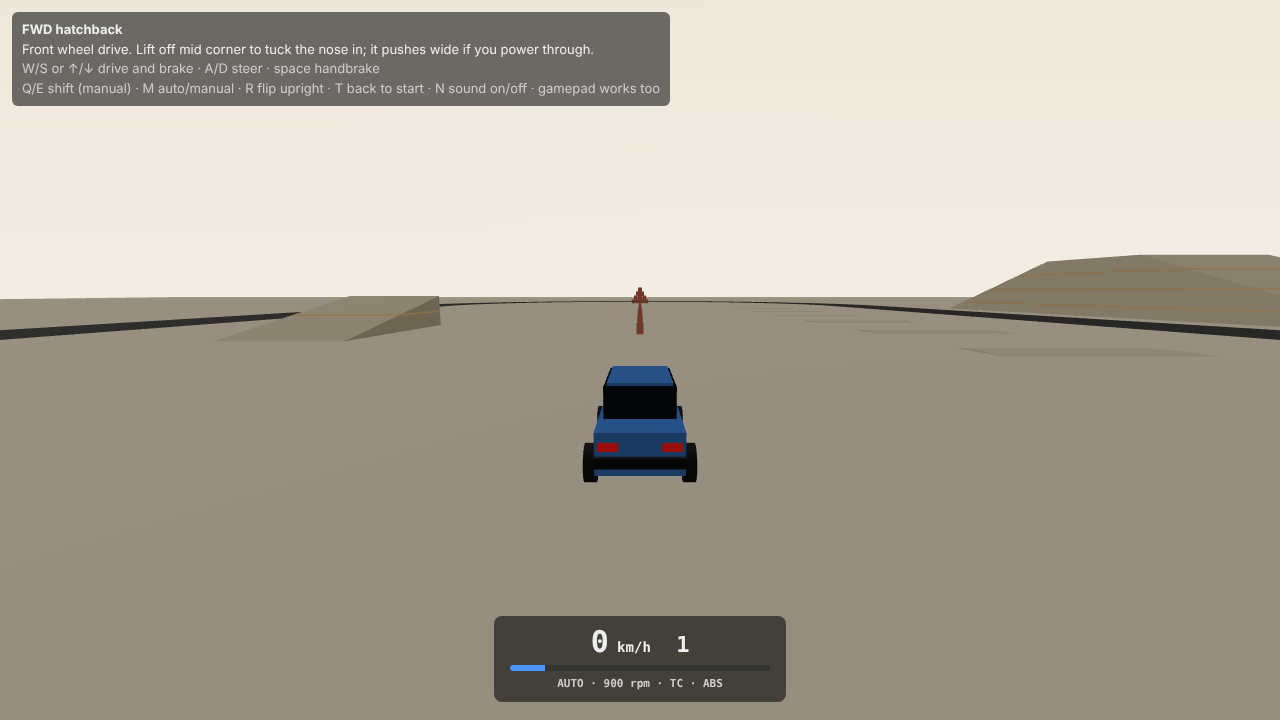
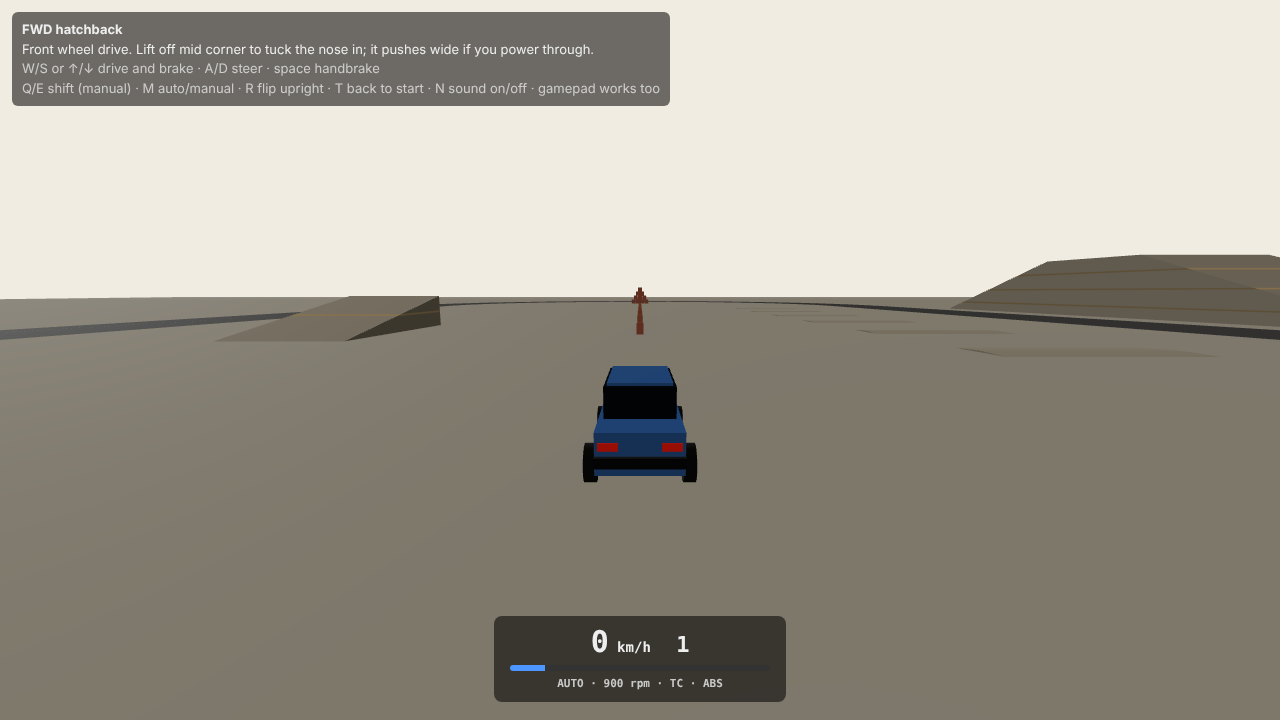
Vehicle examples: visible skid marks and bumps, no sky, taller rally tires
- Skid marks draw over the race tracks' road strip (lifted 10 cm with a
  polygon offset, more opaque), and the asphalt is a lighter grey.
- The sky gradient is gone: a plain background that the fog fades into.
- Race track bumps are smooth shaded meshes facing up (they were wound
  downward and culled), lifted with the road, with exaggerated slope
  shading so even the 3 cm ridges show. Terrain slopes are hillshaded.
- The rally car has 0.37 m gravel tires (was 0.33); final drive, brakes,
  handbrake and wheel inertia scale with the radius, so its metrics and
  laps are unchanged in kind. Skill archetype table updated.

Claude-Session: https://claude.ai/code/session_01LRrE3U2DNQ6uEDrbxeJR8q

Changed region(s): [[0.5312, 0.3361, 1.0, 0.55], [0.0, 0.4278, 0.2188, 0.4889], [0.25, 0.3972, 0.3438, 0.4889]]

diff --git a/examples/src/vehicle-track-art.ts b/examples/src/vehicle-track-art.ts
@@ -1,14 +1,12 @@
 // Minimal topographic look for the vehicle examples: warm paper tones, terrain shaded by height
-// with contour lines every 2 m, a soft sky gradient, dark roads with thin white edges and coral
+// and slope with contour lines every 2 m, a flat background, dark roads with thin white edges and coral
 // accents. On the race tracks the road is its own ribbon mesh along the track's spline, so its
 // edges and lines are crisp instead of following the 2 m terrain grid.
 
 import * as THREE from 'three';
-import { ConvexGeometry } from 'three/addons/geometries/ConvexGeometry.js';
 import type { RaceTrack } from './vehicle-tracks';
 
 export const topo = {
-	sky: [0xeee8dc, 0xf7f4ec] as const,
 	fog: 0xf1ece2,
 	/** Ground from low to high */
 	ground: [0xe9e1cf, 0xf4efe3] as const,
@@ -16,13 +14,15 @@ export const topo = {
 	solid: 0xddd2bb,
 	contour: 0xc4b391,
 	contourSpacing: 2,
-	asphalt: 0x3c3c3c,
+	asphalt: 0x5a5a5a,
 	gravel: 0x8c7a5b,
 	line: 0xffffff,
 	accent: 0xe07a5f,
 };
 
-/** Sky gradient, fog and soft lights. The scene's default lights go dark. */
+const sunPosition = new THREE.Vector3(200, 75, 120);
+
+/** Flat background, fog and a low sun. The scene's default lights go dark. */
 export function applyTopoAtmosphere(
 	scene: THREE.Scene,
 	fogNear = 150,
@@ -32,23 +32,13 @@ export function applyTopoAtmosphere(
 		if (o instanceof THREE.AmbientLight || o instanceof THREE.DirectionalLight)
 			o.intensity = 0;
 	});
-	const canvas = document.createElement('canvas');
-	canvas.width = 2;
-	canvas.height = 256;
-	const ctx = canvas.getContext('2d') as CanvasRenderingContext2D;
-	const gradient = ctx.createLinearGradient(0, 0, 0, 256);
-	const hex = (c: number) => `#${c.toString(16).padStart(6, '0')}`;
-	gradient.addColorStop(0, hex(topo.sky[0]));
-	gradient.addColorStop(1, hex(topo.sky[1]));
-	ctx.fillStyle = gradient;
-	ctx.fillRect(0, 0, 2, 256);
-	const sky = new THREE.CanvasTexture(canvas);
-	sky.colorSpace = THREE.SRGBColorSpace;
-	scene.background = sky;
+	// No sky: one flat tone that the fog fades the land into
+	scene.background = new THREE.Color(topo.fog);
 	scene.fog = new THREE.Fog(topo.fog, fogNear, fogFar);
-	scene.add(new THREE.HemisphereLight(topo.sky[0], topo.ground[0], 0.8));
-	const sun = new THREE.DirectionalLight(0xffffff, 0.6);
-	sun.position.set(120, 200, 80);
+	// A low sun rakes across the ground so bumps and slopes cast clear shading
+	scene.add(new THREE.HemisphereLight(topo.fog, topo.ground[0], 0.55));
+	const sun = new THREE.DirectionalLight(0xffffff, 1.0);
+	sun.position.copy(sunPosition);
 	scene.add(sun);
 }
 
@@ -64,15 +54,18 @@ export function topoMaterial(
 		shader.uniforms.contourColor = { value: new THREE.Color(topo.contour) };
 		shader.uniforms.contourSpacing = { value: topo.contourSpacing };
 		shader.vertexShader = shader.vertexShader
-			.replace('#include <common>', '#include <common>\nvarying float vHeight;')
+			.replace(
+				'#include <common>',
+				'#include <common>\nvarying float vHeight;\nvarying float vUp;',
+			)
 			.replace(
 				'#include <begin_vertex>',
-				'#include <begin_vertex>\nvHeight = (modelMatrix * vec4(position, 1.0)).y;',
+				'#include <begin_vertex>\nvHeight = (modelMatrix * vec4(position, 1.0)).y;\nvUp = normalize(mat3(modelMatrix) * objectNormal).y;',
 			);
 		shader.fragmentShader = shader.fragmentShader
 			.replace(
 				'#include <common>',
-				'#include <common>\nvarying float vHeight;\nuniform vec3 contourColor;\nuniform float contourSpacing;',
+				'#include <common>\nvarying float vHeight;\nvarying float vUp;\nuniform vec3 contourColor;\nuniform float contourSpacing;',
 			)
 			.replace(
 				'#include <dithering_fragment>',
@@ -82,7 +75,9 @@ export function topoMaterial(
 	// fwidth is 0 on perfectly flat ground, and smoothstep(0, 0, x) is undefined
 	float w = max(fwidth(f), 1e-4);
 	float line = 1.0 - smoothstep(0.0, 1.5 * w, abs(fract(f - 0.5) - 0.5));
-	gl_FragColor.rgb = mix(gl_FragColor.rgb, contourColor, line * 0.8);`,
+	gl_FragColor.rgb = mix(gl_FragColor.rgb, contourColor, line * 0.8);
+	// Hillshade: steeper ground a little darker, so slopes read even in flat light
+	gl_FragColor.rgb *= 1.0 - 0.35 * smoothstep(0.02, 0.5, 1.0 - vUp);`,
 			);
 	};
 	// The shader edit is the same for every topo material, so they can share one program
@@ -165,6 +160,78 @@ function ribbon(
 	return geometry;
 }
 
+/**
+ * A bump's visible surface: the same shape as its convex hull (the upper outline of the profile
+ * across the road, ramping down to the base beyond each edge), as a fine grid with smooth normals
+ */
+function bumpGeometry(points: number[], half: number): THREE.BufferGeometry {
+	// The profile along the road from the hull's top points at the road edge
+	const profile: [number, number][] = [];
+	for (let k = 0; k < points.length; k += 3) {
+		if (Math.abs(points[k] - half) < 1e-4 && points[k + 1] >= 0) {
+			profile.push([points[k + 2], points[k + 1]]);
+		}
+	}
+	profile.sort((a, b) => a[0] - b[0]);
+	// Its upper convex hull, which is what the physics hull follows
+	const hull: [number, number][] = [];
+	for (const p of profile) {
+		while (hull.length >= 2) {
+			const [a, b] = [hull[hull.length - 2], hull[hull.length - 1]];
+			if ((b[0] - a[0]) * (p[1] - a[1]) - (b[1] - a[1]) * (p[0] - a[0]) >= 0)
+				hull.pop();
+			else break;
+		}
+		hull.push(p);
+	}
+	// Densify so the shading interpolates smoothly along it
+	const along: [number, number][] = [];
+	for (let i = 0; i < hull.length - 1; i++) {
+		for (let k = 0; k < 4; k++) {
+			const t = k / 4;
+			along.push([
+				hull[i][0] + (hull[i + 1][0] - hull[i][0]) * t,
+				hull[i][1] + (hull[i + 1][1] - hull[i][1]) * t,
+			]);
+		}
+	}
+	along.push(hull[hull.length - 1]);
+	const ramp = 2.5;
+	const across = [
+		-half - ramp,
+		-half - ramp / 2,
+		-half,
+		0,
+		half,
+		half + ramp / 2,
+		half + ramp,
+	];
+	const positions: number[] = [];
+	for (const [u, h] of along) {
+		for (const w of across) {
+			const edge = Math.max(0, Math.abs(w) - half) / ramp;
+			positions.push(w, -0.05 + (h + 0.05) * (1 - edge), u);
+		}
+	}
+	const indices: number[] = [];
+	const m = across.length;
+	for (let i = 0; i < along.length - 1; i++) {
+		for (let j = 0; j < m - 1; j++) {
+			const a = i * m + j;
+			// Wound counter-clockwise seen from above, so the faces and normals point up
+			indices.push(a, a + m, a + 1, a + 1, a + m, a + m + 1);
+		}
+	}
+	const geometry = new THREE.BufferGeometry();
+	geometry.setAttribute(
+		'position',
+		new THREE.Float32BufferAttribute(positions, 3),
+	);
+	geometry.setIndex(indices);
+	geometry.computeVertexNormals();
+	return geometry;
+}
+
 /** The race track's terrain, road, start line, bumps and start gate */
 export function addRaceTrackArt(
 	scene: THREE.Scene,
@@ -219,24 +286,40 @@ export function addRaceTrackArt(
 	};
 	group.add(new THREE.Mesh(ribbon(track, -half, half, 0.08, nearStart), line));
 
-	// Bumps in the accent colour
+	// Bumps in the accent colour, lifted with the road so even the small ones show, with smooth
+	// normals so the low sun shades their shape
 	const bumpMaterial = new THREE.MeshStandardMaterial({
 		color: topo.accent,
 		roughness: 0.85,
+		polygonOffset: true,
+		polygonOffsetFactor: -3,
+		polygonOffsetUnits: -3,
 	});
-	for (const bump of track.bumps) {
-		const points: THREE.Vector3[] = [];
-		for (let k = 0; k < bump.points.length; k += 3) {
-			points.push(
-				new THREE.Vector3(
-					bump.points[k],
-					bump.points[k + 1],
-					bump.points[k + 2],
-				),
+	// Even the big hump slopes only about 10 degrees, which plain lighting barely shows, so the
+	// shading is exaggerated: faces tilted toward the sun brighten and faces tilted away darken
+	bumpMaterial.onBeforeCompile = (shader) => {
+		shader.vertexShader = shader.vertexShader
+			.replace('#include <common>', '#include <common>\nvarying vec3 vSlope;')
+			.replace(
+				'#include <begin_vertex>',
+				'#include <begin_vertex>\nvSlope = normalize(mat3(modelMatrix) * objectNormal);',
 			);
-		}
-		const mesh = new THREE.Mesh(new ConvexGeometry(points), bumpMaterial);
-		mesh.position.set(...bump.position);
+		shader.fragmentShader = shader.fragmentShader
+			.replace('#include <common>', '#include <common>\nvarying vec3 vSlope;')
+			.replace(
+				'#include <dithering_fragment>',
+				`#include <dithering_fragment>
+	float tilt = dot(normalize(vSlope).xz, normalize(vec2(${sunPosition.x}, ${sunPosition.z})));
+	gl_FragColor.rgb *= clamp(1.0 + 4.0 * tilt, 0.45, 1.6);`,
+			);
+	};
+	for (const bump of track.bumps) {
+		const mesh = new THREE.Mesh(bumpGeometry(bump.points, half), bumpMaterial);
+		mesh.position.set(
+			bump.position[0],
+			bump.position[1] + 0.05,
+			bump.position[2],
+		);
 		mesh.rotation.y = bump.yaw;
 		group.add(mesh);
 	}

diff --git a/examples/src/vehicle-presets.js b/examples/src/vehicle-presets.js
@@ -348,11 +348,13 @@ export const vehicleCars = {
 		comHeight: 0.16,
 		comForward: 0.08,
 		layout: [0.8, -0.05, 1.25, -1.25],
-		wheelRadius: 0.33,
-		wheelInertia: 0.9,
-		front: { width: 0.21, brake: 2300, frequency: 1.5 },
-		rear: { width: 0.21, brake: 1500, frequency: 1.6 },
-		handbrake: 4000,
+		// Tall gravel tires. The final drive, brakes and wheel inertia scale with the radius
+		// (0.33 m before), so the gearing and stopping force stay the same.
+		wheelRadius: 0.37,
+		wheelInertia: 1.13,
+		front: { width: 0.235, brake: 2580, frequency: 1.5 },
+		rear: { width: 0.235, brake: 1680, frequency: 1.6 },
+		handbrake: 4480,
 		suspension: {
 			minLength: 0.12,
 			maxLength: 0.45,
@@ -378,7 +380,7 @@ export const vehicleCars = {
 			inertia: 0.12,
 		},
 		gears: [3.3, 2.3, 1.75, 1.4, 1.15, 0.98],
-		finalDrive: 4.4,
+		finalDrive: 4.93,
 		shiftUpRpm: 6500,
 		shiftDownRpm: 3600,
 		shiftTime: 0.08,

diff --git a/examples/src/vehicle-demo.ts b/examples/src/vehicle-demo.ts
@@ -651,8 +651,12 @@ export async function runVehicleDemo(
 		new THREE.MeshBasicMaterial({
 			color: 0x0b0b0b,
 			transparent: true,
-			opacity: 0.55,
+			opacity: 0.7,
 			depthWrite: false,
+			// Drawn over the race tracks' road strip, which sits a few centimetres up
+			polygonOffset: true,
+			polygonOffsetFactor: -4,
+			polygonOffsetUnits: -4,
 		}),
 		maxMarks,
 	);
@@ -685,10 +689,7 @@ export async function runVehicleDemo(
 		const length = last.distanceTo(point);
 		if (length < 0.25) return;
 		dir.subVectors(point, last).normalize();
-		markPos
-			.addVectors(point, last)
-			.multiplyScalar(0.5)
-			.addScaledVector(n, 0.02);
+		markPos.addVectors(point, last).multiplyScalar(0.5).addScaledVector(n, 0.1);
 		markQuat.setFromUnitVectors(up, n);
 		const localDir = dir.clone().applyQuaternion(markQuat.clone().invert());
 		tangentQuat.setFromAxisAngle(up, Math.atan2(localDir.x, localDir.z));

diff --git a/CHANGELOG.md b/CHANGELOG.md
@@ -10,8 +10,9 @@
   - The smoke test drives all 45 presets and checks the preset layers.
 - Two race tracks for the vehicle examples, in the showcase's terrain menu (`?terrain=circuit` or `?terrain=stage`): a 1.27 km paved race circuit and a 1.07 km off-road gravel stage. Both are closed loops with a mix of corners, a climb to a crest and a descent (20 m and 30 m of elevation, grades to 9% on the circuit and 18% on the stage), and a bump section with bumps of different sizes: small sharp ridges, washboard, speed humps, a flat topped table, a long gentle hump and a big hump on the circuit; small rocks, whoops, a washout ledge, ruts and a jump on the stage. A lap timer shows the current, last and best lap.
   - `examples/src/vehicle-tracks.js` builds a track (`buildRaceTrack`) from a closed spline through control points, and its physics (`createRaceTrackBodies`): a height field and the bumps as convex hulls, with banks and walls at the edge. Node tests use the same code as the examples.
-- The vehicle examples have a minimal topographic look on every terrain: warm paper tones, ground shaded by height with contour lines every 2 m (on ramps, hills and rocks too), a soft sky gradient, coral props and bumps. On the race tracks the road is a smooth ribbon along the track with crisp white edge lines and start line, instead of colours painted on the 2 m terrain grid. `examples/src/vehicle-track-art.ts` holds the look, and `createWorldRenderer` takes a `materialFor` option to override a shape's material.
+- The vehicle examples have a minimal topographic look on every terrain: warm paper tones, ground shaded by height with contour lines every 2 m (on ramps, hills and rocks too), slopes shaded darker, a plain background with no sky, coral props and bumps. The bumps on the race tracks are smooth shaded with exaggerated light and dark faces, so even the 3 cm ridges show, and skid marks draw over the road. On the race tracks the road is a smooth ribbon along the track with crisp white edge lines and start line, instead of colours painted on the 2 m terrain grid. `examples/src/vehicle-track-art.ts` holds the look, and `createWorldRenderer` takes a `materialFor` option to override a shape's material.
   - `examples/scripts/vehicle-laps.mjs` drives presets around the tracks with an autopilot and checks that every lap is completed without flipping. All 45 presets pass on both tracks. The smoke test checks the track geometry and drives a lap on each.
+  - The rally car has taller gravel tires (0.37 m radius, was 0.33). Its final drive, brakes and wheel inertia scale with them, so it accelerates, stops and tops out as before.
   - The automatic gearbox in the matrix cars and the RWD sports car example upshifts at 90% of the rev limit, as racing games do, and the metrics script checks it (`shiftShare`). The gearbox reads road speed, which trails the engine by the clutch slip, so the settings sit below 90% (6200, 6500 and 7150 rpm for the sports car, rally car and supercar).
 - The vehicle examples' track has rounded speed humps (8 cm high, 3.7 m long, like real ones) instead of 14 cm ridges, which bottomed out every car's suspension and could flip cars at 45 km/h and up. The matrix cars' dampers are softer in compression than in rebound, so bumps reach the body more gently.
 - The vehicle examples have sound, made with the Web Audio API and no audio files. The engine's pitch follows the rpm and each car's cylinder count, and its tone opens with the throttle; sliding tires squeal, wind rises with speed, and the suspension thumps when it hits its bump stop. Sound starts on the first key press or click. N mutes it, and the panel has a volume slider.

diff --git a/.claude/skills/vehicle-tuning/reference/archetypes.md b/.claude/skills/vehicle-tuning/reference/archetypes.md
@@ -25,7 +25,7 @@ Starting ranges for the car layer at 100% realism, and the targets the metrics s
 | center of mass z, before the FWD layer's +0.15 | 0 to +0.08 | +0.05 to +0.1 | -0.2 to -0.3 (mid engine) | +0.08 to +0.12 (about 60/40 front once the FWD layer adds its +0.15) |
 | half track, wheelbase (m) | 0.8, 2.55 | 0.8, 2.5 | 0.86, 2.7 | 0.77, 2.6 |
 | wheel `position` | [±0.8, -0.02, +1.3 / -1.25] | [±0.8, -0.05, +1.25 / -1.25] | [±0.86, 0, +1.4 / -1.3] | [±0.77, -0.04, +1.3 / -1.3] |
-| wheel radius (m) | 0.33 | 0.32-0.33 (0.32 keeps 6th under 215 km/h) | 0.35 | 0.32 |
+| wheel radius (m) | 0.33 | 0.37 (tall gravel tires; scale the final drive, brakes and wheel inertia with the radius) | 0.35 | 0.32 |
 | spring frequency F/R (Hz) | 2.0 / 2.2 | 1.5 / 1.6 | 2.5 / 2.7 | 1.9 / 2.1 |
 | travel min/max (m) | 0.17 / 0.33 | 0.12 / 0.45 | 0.18 / 0.30 | 0.17 / 0.34 |
 | tire peak slip, lateral peak angle | 0.1, 7° | 0.18, 11° | 0.09, 6.5° | 0.1, 7° |
@@ -35,13 +35,13 @@ Starting ranges for the car layer at 100% realism, and the targets the metrics s
 | torque (N·m) at rpm | 400-480 at 5000 | 380-420 at 4000 | 650-770 at 6000 | 380-420 at 3000 (turbo) |
 | max rpm | 7000-7500 | 7500 | 8500 | 6500-7000 |
 | gear ratios | 3.6, 2.2, 1.55, 1.2, 0.98, 0.82 | 3.3, 2.3, 1.75, 1.4, 1.15, 0.98 | 3.2, 2.3, 1.75, 1.4, 1.15, 0.95, 0.78 | 3.46, 2.05, 1.37, 1.03, 0.85, 0.78 |
-| final drive | 3.6 | 4.4 | 3.4 | 3.9 |
+| final drive | 3.6 | 4.93 (4.4 at 0.33 m) | 3.4 | 3.9 |
 | shift up / down (rpm) | 6200 / 3200 | 6500 / 3600 | 7150 / 4200 | 0.9 × `maxRpm` - 270 / 2800 |
 | top speed is set by | drag | gearing (6th at the limiter ≈ 210 km/h) | drag | drag |
 | engine inertia | 0.2 | 0.12 | 0.15 | 0.15-0.2 |
 | anti-roll F/R (N/m) | 16000 / 13000 | 16000 / 12000 | 30000 / 26000 | 20000 / 14000 |
-| brakes F/R (N·m) | 2600 / 1500 | 2300 / 1500 | 2400 / 2200 | 1800 / 1200 |
-| handbrake (N·m) | 2500 | 4000 (hydraulic) | 2000-2200 | 2500 |
+| brakes F/R (N·m) | 2600 / 1500 | 2580 / 1680 | 2400 / 2200 | 1800 / 1200 |
+| handbrake (N·m) | 2500 | 4480 (hydraulic) | 2000-2200 | 2500 |
 | steering lock, speedReference | 34°, 11 | 38°, 12 | 32°, 13 | 35°, 11 |
 | downforce, drag | 0.25, 0.4 | 0.15, 0.45 | 0.6, 0.38 | 0.15, 0.34-0.36 |
 | own TC / ABS | off / on | off / off | on / on | on / on |
